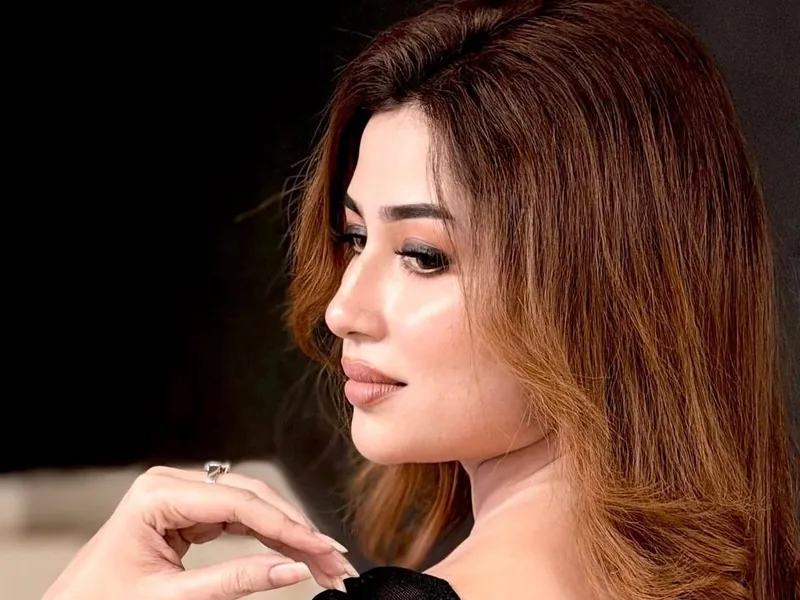
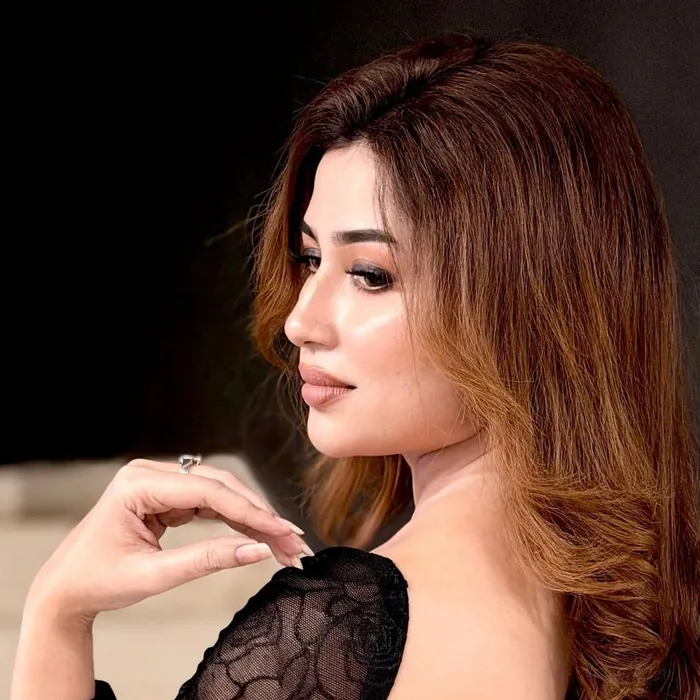
Make category cards square and re-crop their covers to match

diff --git a/src/app/_home/pieces.tsx b/src/app/_home/pieces.tsx
@@ -144,7 +144,7 @@ export function AudienceCard({ icon, title, desc, tone, href, cover }: {
   );
   const style = {
     padding: 26, position: "relative" as const, overflow: "hidden" as const,
-    minHeight: 230, display: "flex", flexDirection: "column" as const, justifyContent: "flex-end" as const,
+    aspectRatio: "1 / 1", display: "flex", flexDirection: "column" as const, justifyContent: "flex-end" as const,
     background: cover ? "var(--bg-surface)" : GRADIENTS[tone],
   };
   if (href) return <Link href={href} className="card hoverable" style={style}>{inner}</Link>;
